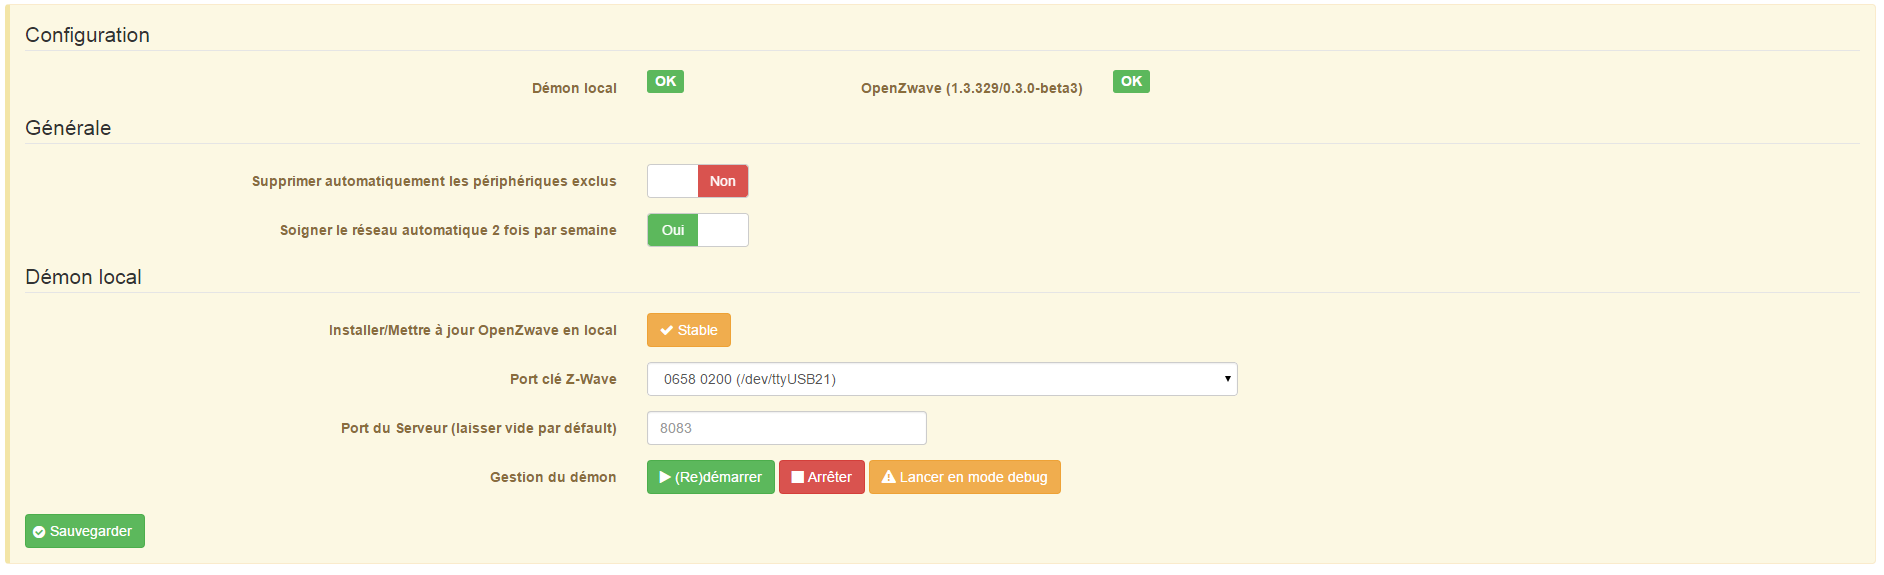
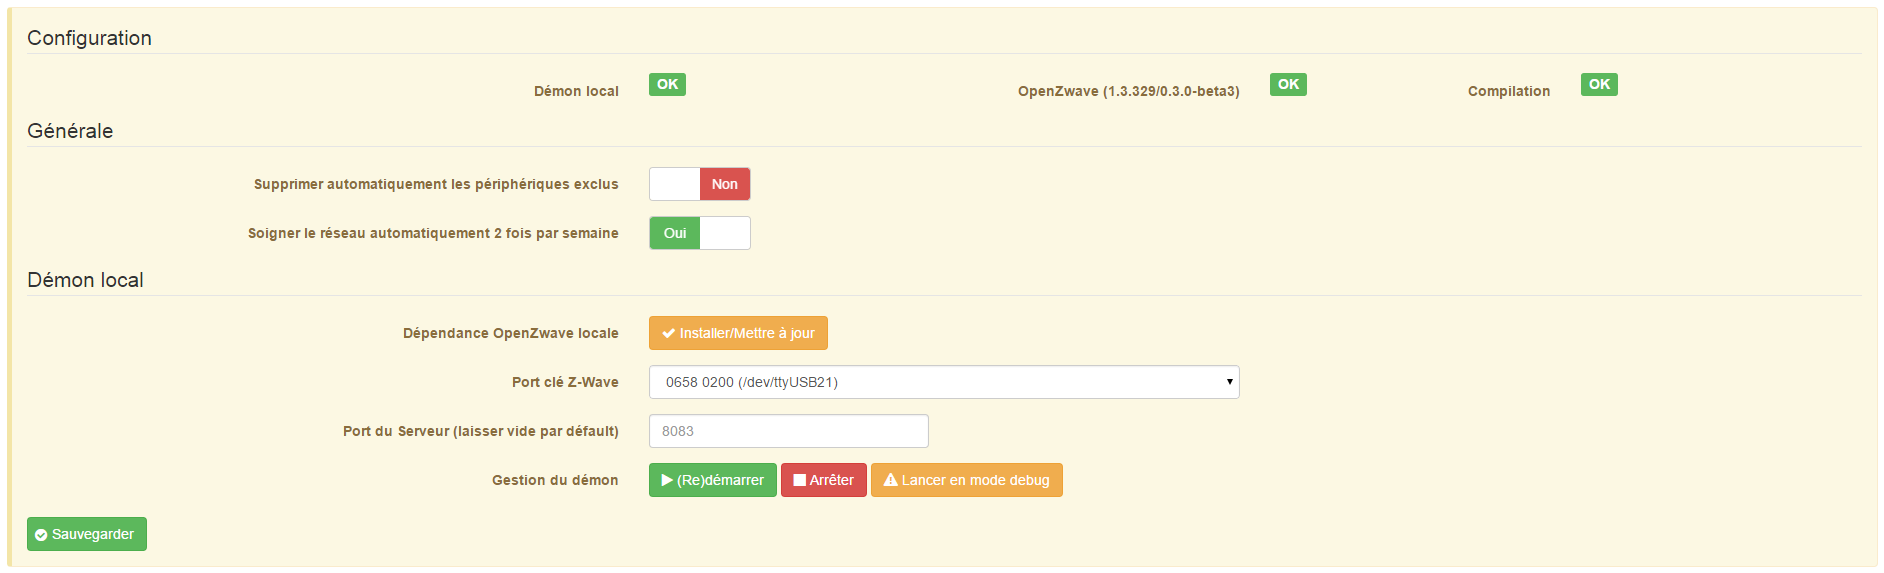
Update doc

diff --git a/plugin_info/configuration.php b/plugin_info/configuration.php
@@ -128,10 +128,9 @@ foreach ($deamonRunningSlave as $name => $status) {
 				<?php
 if (jeedom::isCapable('sudo')) {
 	echo '<div class="form-group">
-					<label class="col-lg-4 control-label">{{Installer/Mettre à jour OpenZwave en local}}</label>
+					<label class="col-lg-4 control-label">{{Dépendance OpenZwave locale}}</label>
 					<div class="col-lg-3">
-						<a class="btn btn-warning bt_installDeps" data-mode="master"><i class="fa fa-check"></i> {{Stable}}</a>
-						<!-- <a class="btn btn-danger bt_installDeps" data-mode="dev"><i class="fa fa-check"></i> {{Developpement}}</a> -->
+						<a class="btn btn-warning bt_installDeps" data-mode="master"><i class="fa fa-check"></i> {{Installer/Mettre à jour}}</a>
 					</div>
 				</div>';
 } else {
